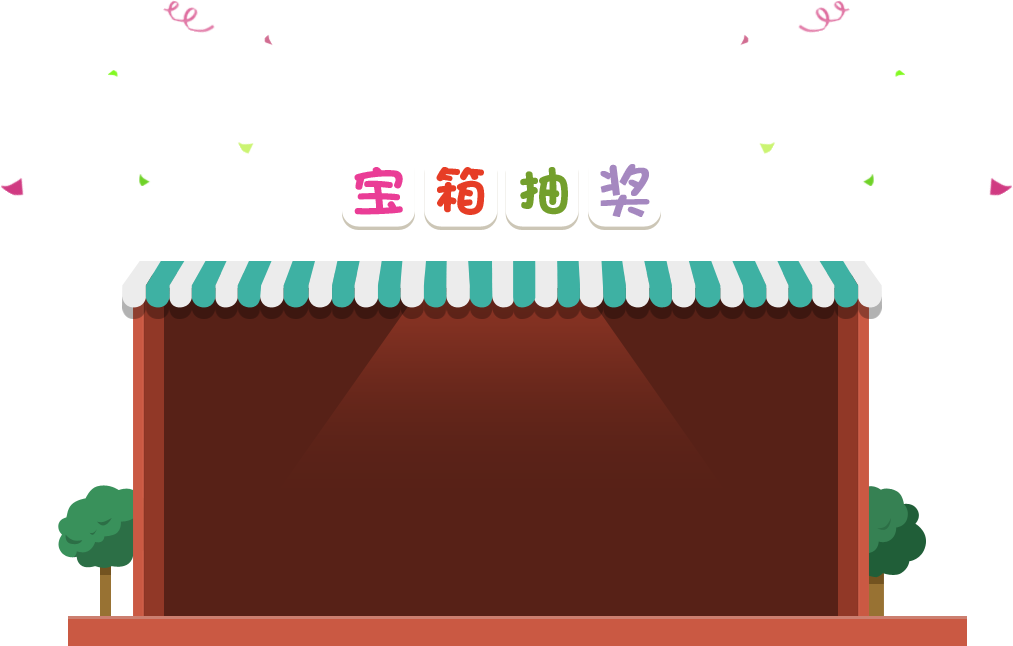
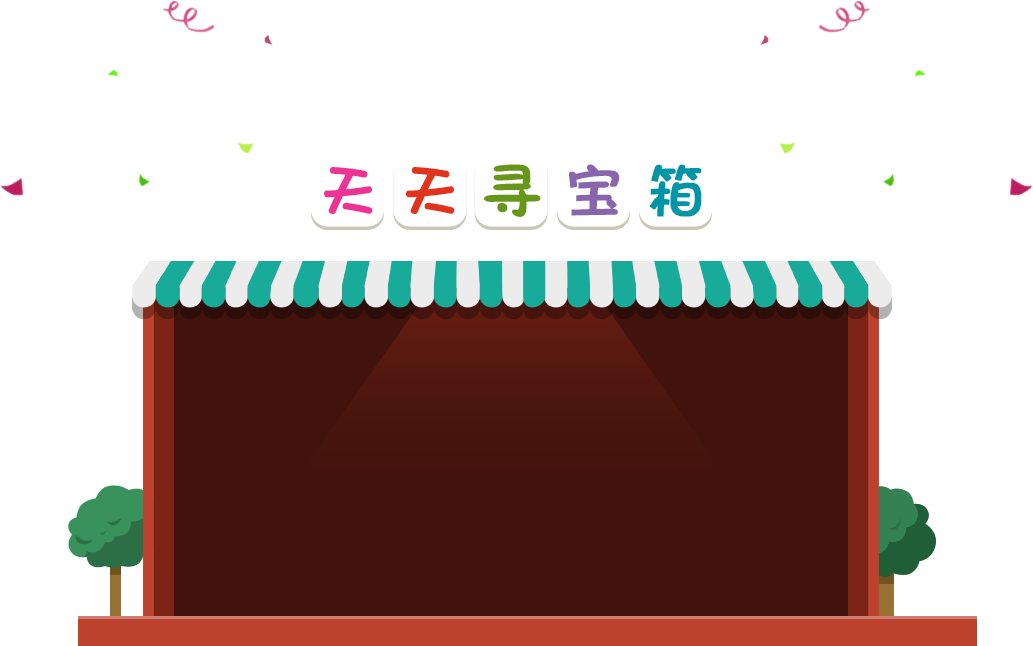
#524 宝箱图片更改

diff --git a/web/css/taobao.css b/web/css/taobao.css
@@ -32,7 +32,7 @@ a{ text-decoration:none;}
 .taobaoCon{ position: relative; z-index: 1; background-color: #fff; padding-top: 5px; padding-left: 5px;}
 .treasure{ position: absolute; z-index: 1000; background: transparent; cursor: pointer; opacity: 0; filter: alpha(opacity=0);}
 .mask{ position: fixed; left: 0; top: 0; width: 100%; height: 100%; z-index: 9000; opacity: .6; filter: alpha(opacity=60); background-color: #000;}
-.winLayer{ position: fixed; left: 50%; margin-left: -506px; top: 5px; background: url(../images/taobao/bg.png) no-repeat; width: 1013px; height: 646px; z-index: 9099;}
+.winLayer{ position: fixed; left: 50%; margin-left: -516px; top: 5px; background: url(../images/taobao/bg.png) no-repeat; width: 1033px; height: 646px; z-index: 9099;}
 .winLayer .winCon{ position: relative; left: 50%; margin-left: -201px; top: 330px; width: 402px; height: 203px; z-index: 9998;}
 .winLayer .winCon .winResult{ position: absolute; top: 100px; left: 65px; z-index: 9999; font-size: 18px; font-weight: bold; color: #ac1b00; font-family: Microsoft Yahei,SimHei,Tahoma; background: url(../images/taobao/point.png) no-repeat 0 0; padding-left: 60px; line-height: 45px;}
 .winLayer .winCon .winResult strong{ color: #ff1e00;}
